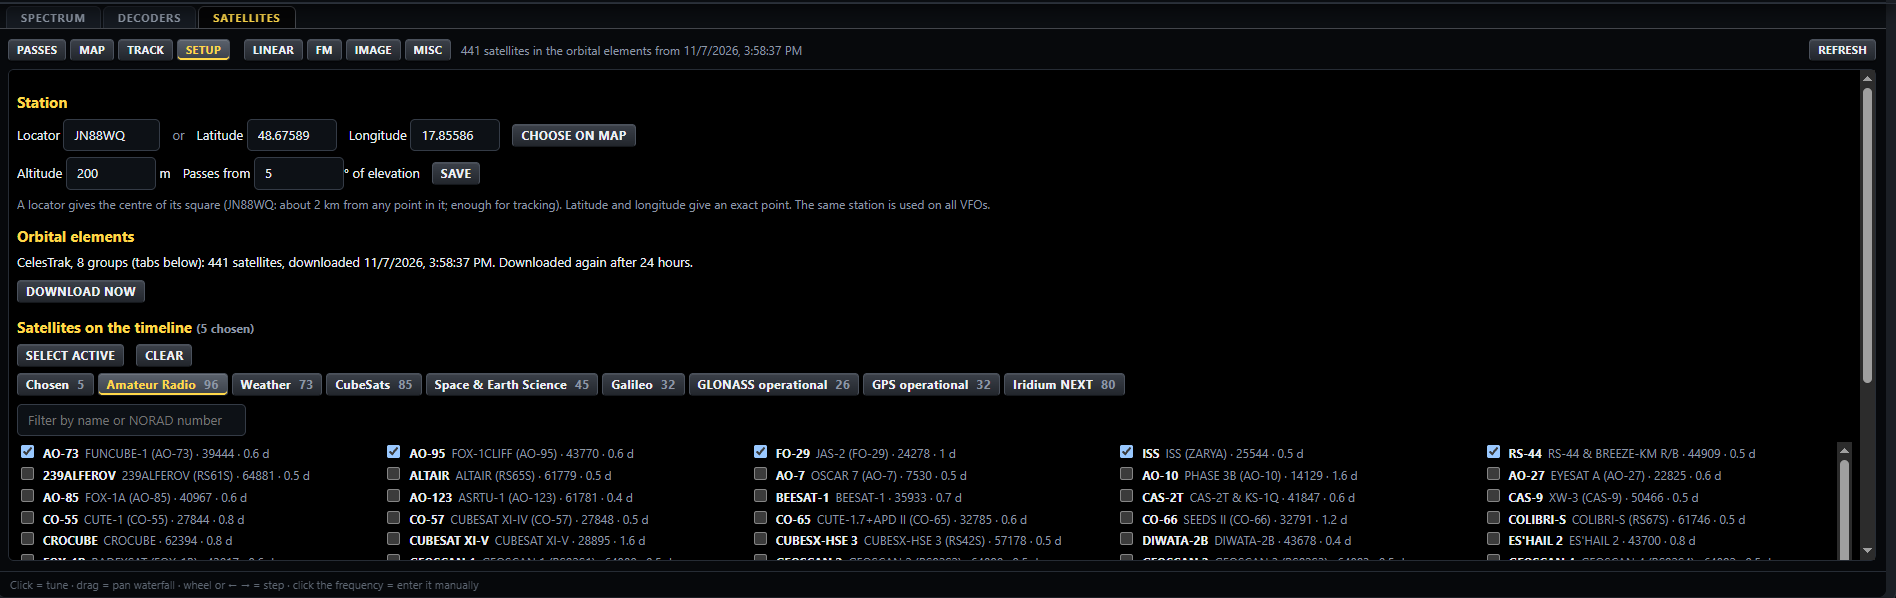
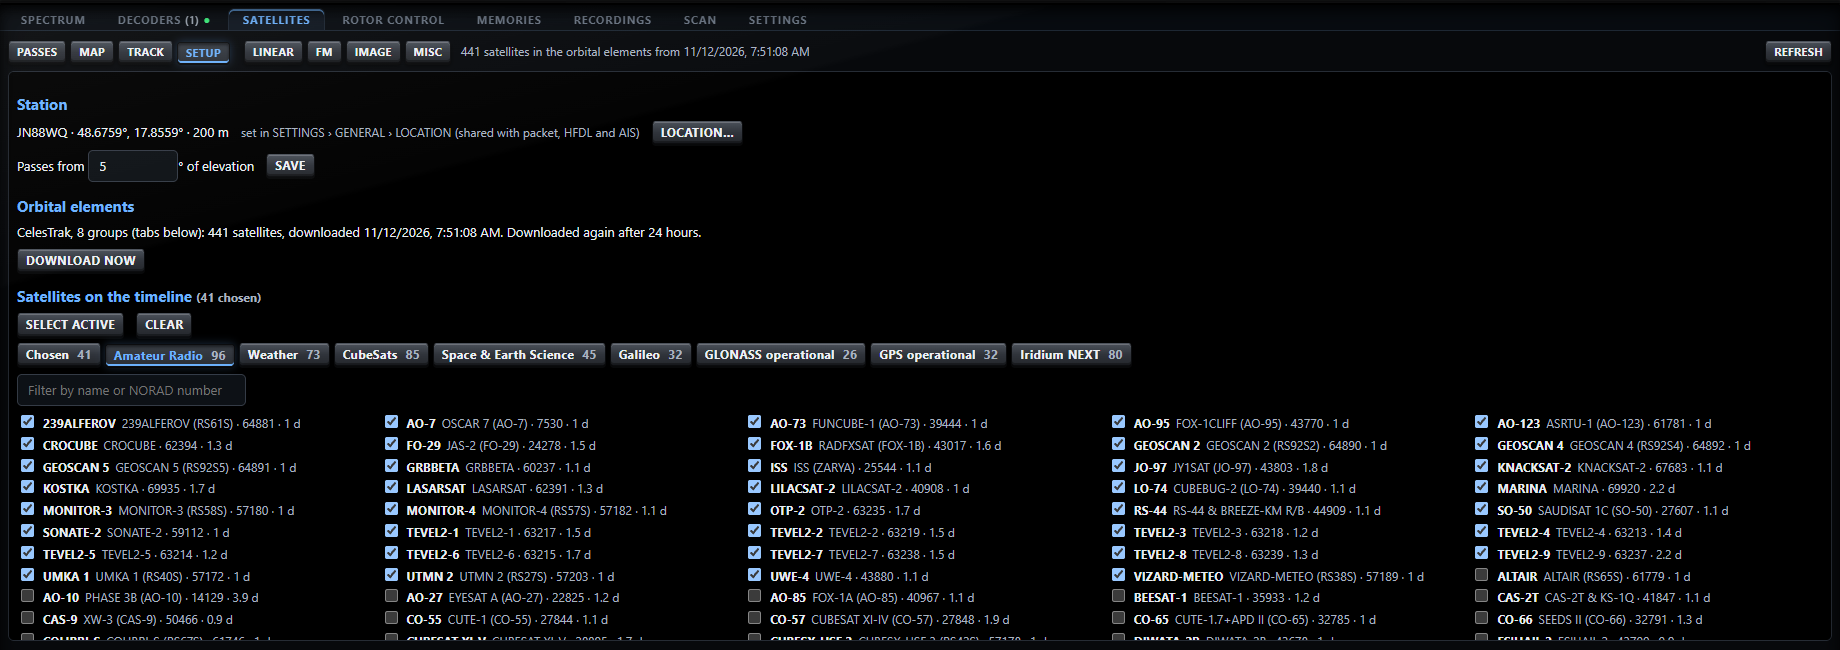
update of images

Changed region(s): [[0.0, 0.0, 1.0, 1.0]]

diff --git a/docs/controls.md b/docs/controls.md
@@ -78,6 +78,9 @@ of that VFO (orange LED): that VFO stays audible at CUE level while another VFO 
     **SLANT** (ppm) with **ALIGN** straightens a slanted image: click two points on a line that should be vertical; it is kept after a restart.
     **AFC VFO** (on by default): once the decoder locks, the VFO is retuned so that the signal centre is at 1900 Hz in USB, without a break in the image.
     Next to the live image a gallery of the last 12 saved images: a click opens one, × deletes it, **DEL ALL** deletes all.
+
+    ![WEFAX decoder: the stations of DWD and Northwood, LPM, IOC, SLANT with ALIGN, AFC VFO, and the gallery of the last saved weather charts](images/decoders_wefax.png)
+
   - CW: TUNE switches to CW and tunes to the detected tone, CLR clears the text. The decoder sets its own
     threshold from the measured noise floor and the level of the received marks (follows fading, a noise blanker
     removes static crashes), so it does not depend on the ALC or the volume.
@@ -88,6 +91,9 @@ of that VFO (orange LED): that VFO stays audible at CUE level while another VFO 
   - SSTV: frequencies (80m–10m, ISS FM), mode selection (Auto by VIS), STOP, PNG and a gallery of recent
     images (saved to `data\sstv\`). Modes Martin M1/M2, Scottie S1/S2/DX, Robot 36/72, PD 50–290;
     AFC and slant correction are automatic. Filter at least 2.7 kHz.
+
+    ![SSTV decoder: band keys, mode Auto (VIS), and the gallery of the last received images](images/decoders_sstv.png)
+
   - PACKET: AX.25 at 1200 Bd AFSK (APRS 144.800 MHz, ISS 145.825 MHz) and 9600 Bd FSK/GFSK/GMSK G3RUH (satellites),
     both at once (BAUD) and independent of the mode and filter (FM is demodulated from the baseband; 9600 Bd needs at
     least 1.536 MS/s). SCRAMBLER Auto tries 9600 Bd with and without the G3RUH scrambler. AFC shows the tuning error of
@@ -169,6 +175,9 @@ of that VFO (orange LED): that VFO stays audible at CUE level while another VFO 
   playing; MUTE it if you want). A file being written plays what is saved so far. **NEXT** (on by default) continues with the next older file when one
   ends, so the short sessions of REC SQ play one after another; the filter box narrows the list to rows whose name, memory, kHz, mode or date contains
   the text (NEXT follows the filtered list). ✕ at the end of a row deletes the file after a question; a file being written cannot be deleted.
+
+  ![RECORDINGS tab: the player with PLAY, seek bar and volume, NEXT, the filter, and the list of MP3 files with start, frequency, mode, length, size and file name](images/recordings.png)
+
 - **MENU → SET (gear)**: settings. While the gear key is lit, the bottom part has a **SETTINGS** tab
   (beside SPECTRUM, DECODERS and SATELLITES); the open pages are remembered in the browser.
   The gear is one switch for all VFOs; switching it off hides the tab. Two pages:
@@ -189,6 +198,11 @@ of that VFO (orange LED): that VFO stays audible at CUE level while another VFO 
       **RESET** (clears a fault, orange while there is one) and **MONITOR** (shows AZ / EL in the AD, see below; one switch for all VFOs, remembered in the browser).
       Then the **azimuth calibration**. The settings are in `data\rotor.json`; the serial port is held by the receiver of the first VFO in `vfos.json`,
       the page sends the rotor commands there whichever VFO is active. See [Satellite tracking](satellites.md).
+
+    ![SETTINGS › GENERAL › SKINS: the finishes of the panel (dark, black and light brushed aluminium, mahogany, RAL paint) and the RAL colour chart](images/settings_skins.png)
+
+    ![SETTINGS › GENERAL › S-METER: the seven S-meter layouts, amber needle chosen](images/settings_smeter.png)
+
   - **VFO**: settings of one VFO. On the left the keys **VFO-A … VFO-D** (like the VFO keys under the VFO windows; one without an SDR is grey);
     the lit one is the active VFO and is joined to the card on the right, which holds its settings. A press on another key switches the
     active VFO (as the keys under the VFO windows) and SETTINGS stays open. The card has the pages:
@@ -215,6 +229,9 @@ of that VFO (orange LED): that VFO stays audible at CUE level while another VFO 
       - **S-meter: S9 =**: calibration of the S-meter of this VFO (the level in dBFS shown as S9; was on UI › S-METER).
     - **AUDIO**: AFI inversion frequency, the ASQ (auto squelch) margin above the noise (2–30 dB), the CTCSS tone (TSQ-C) and DCS code with polarity (TSQ-D), HPF and LPF frequency. The squelch level itself is set by the SQL bar of the VFO window.
     - **TX** (LimeSDR only): Enable TX, see [Transmitting (LimeSDR)](configuration.md#transmitting-limesdr).
+
+    ![SETTINGS › VFO › SDR DONGLE: keys VFO-A … D, the block diagram of the signal path from the antenna to the screen with numbered blocks, and the cards with correction, bandwidth, tuner gain, bias-tee, DC peak removal and RESET SDR DONGLE](images/settings_vfo.png)
+
 - **MENU → MEM**: frequency memories. While the MEM key is lit, the bottom part has a **MEMORIES** tab (beside DECODERS,
   SATELLITES and SETTINGS) that covers the spectrum and waterfall like the other tabs; the MEM key is one switch for all VFOs,
   switching it off hides the tab, and the open page is remembered in the browser. The pages:
@@ -274,6 +291,8 @@ of that VFO (orange LED): that VFO stays audible at CUE level while another VFO 
     memory are used (its decoder and recording are ignored). In the spectrum the range scanned is a blue strip and locked out channels are grey ✕ marks.
   - While a VFO scans, its baseband decoders (FT8, WEFAX, CW, RTTY, PACKET, SSTV, ACARS) pause; DAB, VDL2, ISM, HFDL and AIS must be off.
 
+  ![SCAN tab: the tiles MEMORY, VISIBLE BAND, RANGE (2280 airband channels) and FM BCAST, the memory group chips, START, REC and the auto squelch summary, and the CHANNELS page with SCAN, SQ, ASQ and PRIO of each airband memory](images/scan.png)
+
 - **VIEW** (far left of the key row): hides the whole lower part with the tabs (SPECTRUM, DECODERS …) with a slide and shows it again; lit while hidden. A key that opens a tab (DECODE, MEM, SCAN …) shows it again. Remembered in the browser.
 - **MENU → BAND**: shows or hides the row of band keys; the spectrum and waterfall take the freed space. Remembered in the browser.
 
@@ -295,6 +314,8 @@ The page is laid out for at least 1920 × 820 px and scaled to the browser windo
 
 The memory editor was written by **Brano ([brjanicek](https://github.com/brjanicek))**. It is the pages **CHANNELS**, **GROUPS**, **IMPORT** and
 **EXPORT** of the MEMORIES tab. Changes are saved at once (except the IMPORT and EXPORT lists).
+
+![MEMORIES › CHANNELS: search, group filter, favourites and duplicates, SAVE CURRENT and NEW, the bulk keys for ticked channels, and the table of the AIR group with its group note](images/memory_editor.png)
 
 - **CHANNELS**: every memory in a table: star, name, frequency, mode, bandwidth, decoder, record, groups, tag and note. Show one group
   or `(no group)`, search name, note, group or kHz, and click a **column header** to sort by it (again = the other way round;
@@ -324,6 +345,9 @@ The memory editor was written by **Brano ([brjanicek](https://github.com/brjanic
   channels, which can then be changed without touching the original) and **🗑** deletes it (asks whether the channels that are in no
   other group are deleted too, or kept without a group). Tick groups to **MERGE** them into one (asks for its name; the
   notes are joined), to delete them or to put their channels on the export list.
+
+  ![MEMORIES › GROUPS: every group with its number of channels and its note, MERGE, TO EXPORT and DELETE, and the icons of each group](images/memory_groups.png)
+
 - **IMPORT**: **LOAD FILE…** reads one or more files and recognises their format by the content: a RADIMCOM export
   (JSON, also the older lists of 0.111 and 0.112, or CSV), SDR# `frequencies.xml`, the SDR++ frequency manager
   (`frequency_manager_config.json`, each list becomes a group), gqrx `bookmarks.csv` (tags become groups, the colour of

diff --git a/docs/satellites.md b/docs/satellites.md
@@ -17,11 +17,11 @@ and the rotor work on one VFO each and go on with the page closed.
 | **SETUP** | The station location (shown here; it is set in **SETTINGS › GENERAL › LOCATION**: locator or latitude and longitude, CHOOSE ON MAP, altitude; **LOCATION…** opens it), the lowest highest-elevation of a pass shown, and the satellites on the timeline, chosen in tabs by CelesTrak group: Amateur Radio, Weather, CubeSats, Space & Earth Science, Galileo, GLONASS operational, GPS operational, Iridium NEXT (and Chosen). **SELECT ACTIVE** ticks the satellites of the AMSAT lists LINEAR, FM, IMAGE and MISC (matched by name; it lists those not in the orbital elements), **CLEAR** unticks all. |
 | **LINEAR**, **FM**, **IMAGE**, **MISC** | Lists of active satellites from [AMSAT](https://www.amsat.org/), kept for 12 hours in `data\satellites.json`. |
 
-![PASSES page: timeline of five satellites over 12 hours with bars shaded by the highest elevation, the list of passes, and the details of an FO-29 pass with its polar plot, AOS, LOS, nearest distance and Doppler shift](images/sat_passes.png)
+![PASSES page: timeline of the chosen satellites over 24 hours with bars shaded by the highest elevation (under 20°, 20–45°, over 45°)](images/sat_passes.png)
 
-![MAP page: world map with the footprints of six satellites, the night side and the station, the ground track of FO-29, and beside it its position, distance, Doppler shift, next pass and transmitters](images/sat_map.png)
+![MAP page: world map with the footprints of the satellites, the night side and the station, the ground track of AO-7, and beside it its position, distance, Doppler shift, next pass and transmitters](images/sat_map.png)
 
-![SETUP page: station by locator JN88WQ, latitude and longitude, orbital elements from CelesTrak, and the satellites on the timeline with SELECT ACTIVE, CLEAR and the CelesTrak group tabs](images/sat_setup.png)
+![SETUP page: station JN88WQ from SETTINGS › GENERAL › LOCATION, minimum elevation, orbital elements from CelesTrak, and the satellites on the timeline with SELECT ACTIVE, CLEAR and the CelesTrak group tabs](images/sat_setup.png)
 
 ![LINEAR page: the AMSAT list of active linear satellites with uplink and downlink frequencies and comments](images/sat_info.png)
 
@@ -38,7 +38,7 @@ Downloaded data (internet needed only for the download; the last copy is used of
 
 ![TRACK page with a yellow callout for each part: pages, satellite, Doppler, transmitters, rotor plan, TRACK / STOP, polar plot and pass data](images/satellites_annotated.png)
 
-![TRACK page with FO-29: the Doppler correction on its linear transponder (VFO tuned to 435.855 MHz, +5.4 kHz), the transmitters from SatNOGS DB, and the rotor waiting for the pass with an overlap plan, TRACK and STOP and the polar plot of the pass](images/sat_track.png)
+![TRACK page with AO-7: Doppler correction off, the transmitters from SatNOGS DB, the rotor not tracking with TRACK and STOP, and the polar plot and elevation chart of the next pass with AOS, LOS, nearest distance and Doppler shift](images/sat_track.png)
 
 A click on a transmitter of the list tunes the VFO to its downlink (the middle of a transponder), sets its mode (FM, USB, CW...) and keeps
 the VFO corrected as the satellite comes and goes; **OFF** stops it. The received frequency is the sent one × (1 − range rate / c),
@@ -81,6 +81,9 @@ The **RCTRL** key (key group **TRACKING**, beside SAT) shows the **ROTOR CONTROL
 (**SETTINGS › GENERAL › ROTOR**, one for all VFOs: the map works from any VFO) to fixed places on the ground, for example a
 broadcast transmitter or a repeater, taken from the channels of **MEMORIES** that have a location.
 
+
+![ROTOR CONTROL › MAP: map of Central Europe with the memory channels that have a location coloured by group, the green beam sector of the antenna turned to 95°, and beside it the GROUPS checkboxes and the channel list nearest first with azimuth and distance](images/rotor_map.png)
+
 - **MAP:** a dark OpenStreetMap map centred on the station (**SETTINGS › GENERAL › LOCATION**). A click anywhere on it, on a channel
   point or on a row of the list beside it turns the rotor to the azimuth of that place from the QTH (great circle), elevation 0.
   The **dashed line** is the wanted azimuth: it goes to the target and stays there until **CLEAR** (remembered in the browser).
@@ -106,3 +109,5 @@ broadcast transmitter or a repeater, taken from the channels of **MEMORIES** tha
   rotor takes hand commands meanwhile), a recalled memory only tunes (useful when going through a band: the antenna does not swing to
   every stored channel), a click on the map only draws the target. The switches belong to the station (`data\rotor.json`, key `links`),
   the same for all VFOs and browsers; the top line of the tab lists the disconnected sources on both pages.
+
+  ![ROTOR CONTROL › CONNECTION: the sources SAT TRACKER and MEMORY RECALL disconnected (switch open), RCTRL MAP linked through the bus to the ROTOR block with azimuth 95° and elevation 0°](images/rotor_connection.png)

diff --git a/CHANGELOG.md b/CHANGELOG.md
@@ -50,6 +50,7 @@ Released after the test beta (GitHub branch `0.114beta1`). Many parts are contri
 
 ### Minor Fixes
 
+- **New screenshots in the docs** for the 0.114 look: main screen, all SATELLITES pages, and new ones of SCAN, ROTOR CONTROL (MAP, CONNECTION), MEMORIES (CHANNELS, GROUPS), RECORDINGS, SETTINGS (SKINS, S-METER, VFO) and the SSTV / WEFAX galleries; README has four more in Screenshots.
 - **RECS key tooltip** showed a broken path (`data` + line break + `ecordings`); it says `data\recordings` again.
 - **Keys inside the tabs in the colour of the tab:** the lit keys of the `.bands` kind (the band and view keys of the decoders: FT8, ACARS, HFDL, AIS, ADS-B, WEFAX, ISM, SSTV, PACKET) had a yellow LED line instead of the colour of the tab; the gold keys in RECORDINGS (play) and SETTINGS (SAVE of the location and the recordings folder) are keys like the others with the legend in the colour of the tab, and the new row flash in the decoder tables, the edited row in MEMORIES and the block diagram in SETTINGS follow the tab colour too.
 - **DECODERS: page keys in groups** (by Brano, brjanicek). The page keys are ordered CW, FT8, PACKET, RTTY, SSTV, WEFAX | ACARS, ADS-B, HFDL, VDL2 | AIS | ISM, with a thin vertical separator between the groups (HF digital modes, aircraft, ships, ISM). The default page of a VFO without a saved page stays FT8.

diff --git a/README.md b/README.md
@@ -77,6 +77,10 @@ The complete feature list: [docs/features.md](docs/features.md).
 | WFM with stereo and RDS | DAB+ |
 | ![Satellite map with footprints and a ground track](docs/images/sat_map.png) | ![VDL2 card with ATN CPDLC and ACARS messages](docs/images/decoders_vdl2.png) |
 | Satellite map | VDL2 / CPDLC |
+| ![SCAN tab: tiles MEMORY, VISIBLE BAND, RANGE and FM BCAST, and the airband channels](docs/images/scan.png) | ![Rotor control map with memory channels and the antenna beam sector](docs/images/rotor_map.png) |
+| [Scanner](docs/controls.md#scan) | [Rotor control map](docs/satellites.md#rotor-control-map) |
+| ![Memory editor with the channels of the AIR group](docs/images/memory_editor.png) | ![SETTINGS › GENERAL › SKINS with the panel finishes and RAL colours](docs/images/settings_skins.png) |
+| [Memory editor](docs/controls.md#memory-editor) | Skins |
 
 ## Security
 
